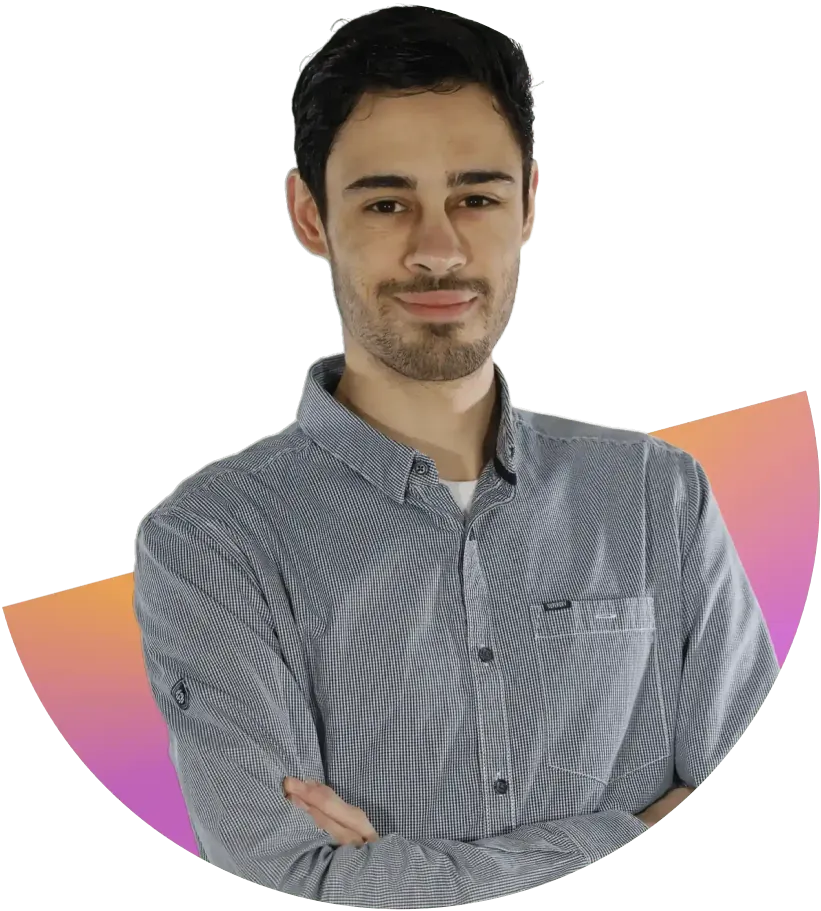
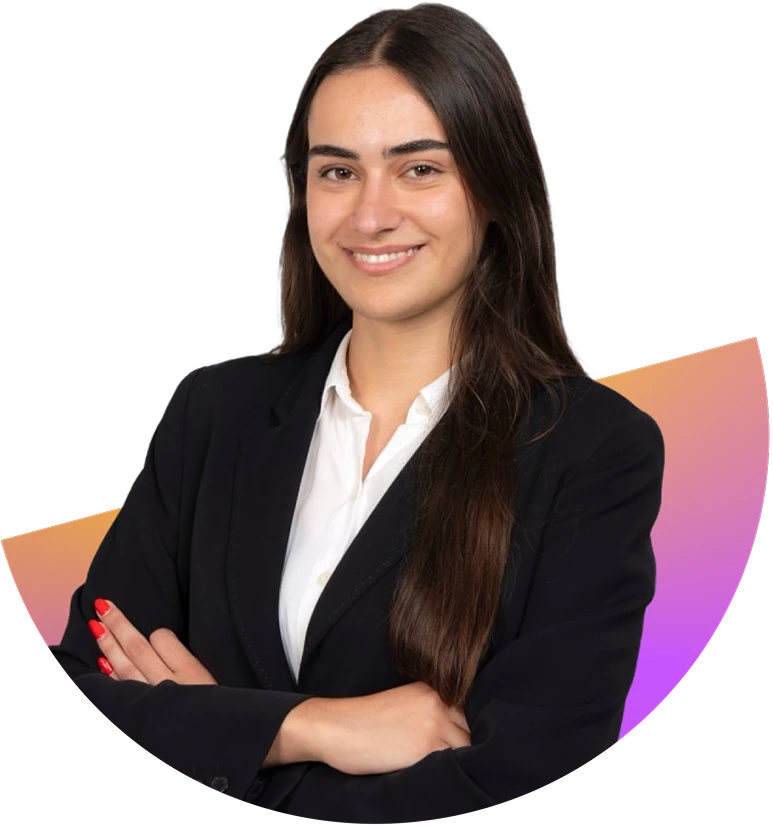
feat: update personal information

diff --git a/src/components/sections/Home.tsx b/src/components/sections/Home.tsx
@@ -7,7 +7,7 @@ import {
 } from "@/components/ui/tooltip";
 import { useTranslation } from "react-i18next";
 import { TooltipSectionProps } from "@/types/tooltipSectionProps";
-import profileImage from "@/assets/images/placeholder-profile.svg";
+import profileImage from "@/assets/images/me.webp";
 
 const TooltipSection: React.FC<TooltipSectionProps> = ({ t }) => (
   <div className="flex justify-center md:justify-start mb-5">
@@ -15,7 +15,7 @@ const TooltipSection: React.FC<TooltipSectionProps> = ({ t }) => (
       <Tooltip>
         <TooltipTrigger className="mr-8" asChild>
           <a
-            href="mailto:hello@example.com"
+            href="mailto:julialuelmorodriguez@gmail.com"
             className="text-gray-600 hover:text-amber-500 transition-colors dark:text-white/70 dark:hover:text-amber-500"
           >
             <Mail size={24} />
@@ -28,7 +28,7 @@ const TooltipSection: React.FC<TooltipSectionProps> = ({ t }) => (
       <Tooltip>
         <TooltipTrigger asChild>
           <a
-            href="https://www.linkedin.com/in/your-profile/"
+            href="https://www.linkedin.com/in/júlia-luelmo-rodríguez-0157aa341"
             target="_blank"
             rel="noopener noreferrer"
             className="text-gray-600 hover:text-amber-500 transition-colors dark:text-white/70 dark:hover:text-amber-500"
@@ -70,7 +70,7 @@ const Home: React.FC = () => {
         <div className="md:translate-y-44 md:translate-x-52 mlg:translate-y-0 mlg:translate-x-0 mlg:ml-auto relative">
           <img
             src={profileImage}
-            alt="Placeholder portrait"
+            alt="Portrait of Júlia Luelmo"
             className="h-full w-52 sm:w-56 md:w-56 mlg:w-80 lg:w-96 rounded-full z-10 relative"
           />
           <div className="absolute top-[0px] right-[0px] w-6 h-6 ssm:w-8 ssm:h-8 mlg:w-11 mlg:h-11 bg-accentPrimary rounded-full z-0"></div>

diff --git a/src/components/sections/About.tsx b/src/components/sections/About.tsx
@@ -1,14 +1,11 @@
 import React from "react";
 import { useTranslation } from "react-i18next";
-import i18n from "@/i18n";
 import { useLanguageKey } from "@/hooks/useLanguageKey";
 
 const About: React.FC = () => {
   const { t } = useTranslation();
   const key = useLanguageKey();
-
-  const isCatalanOrSpanish = i18n.language === "ca" || i18n.language === "es";
-  const paragraph1 = t("about.paragraph1");
+  const paragraphs = [t("about.paragraph1"), t("about.paragraph2")];
 
   return (
     <section
@@ -17,18 +14,10 @@ const About: React.FC = () => {
       className="pb-6 pt-0 md:pb-8 md:pt-4 mlg:pb-9 mlg:pt-6 lg:pb-10 lg:pt-7"
     >
       <h2 className="text-2xl font-semibold mb-2">{t("about.title")}</h2>
-      <div className="opacity-90">
-        <p className="space-y-4">
-          {isCatalanOrSpanish ? (
-            <>
-              {paragraph1.split(" responsive")[0]}
-              <em> responsive</em>.{paragraph1.split(" responsive")[1]}
-            </>
-          ) : (
-            paragraph1
-          )}
-        </p>
-        <p>{t("about.paragraph2")}</p>
+      <div className="space-y-4 opacity-90">
+        {paragraphs.map((paragraph, index) => (
+          <p key={index}>{paragraph}</p>
+        ))}
       </div>
     </section>
   );
